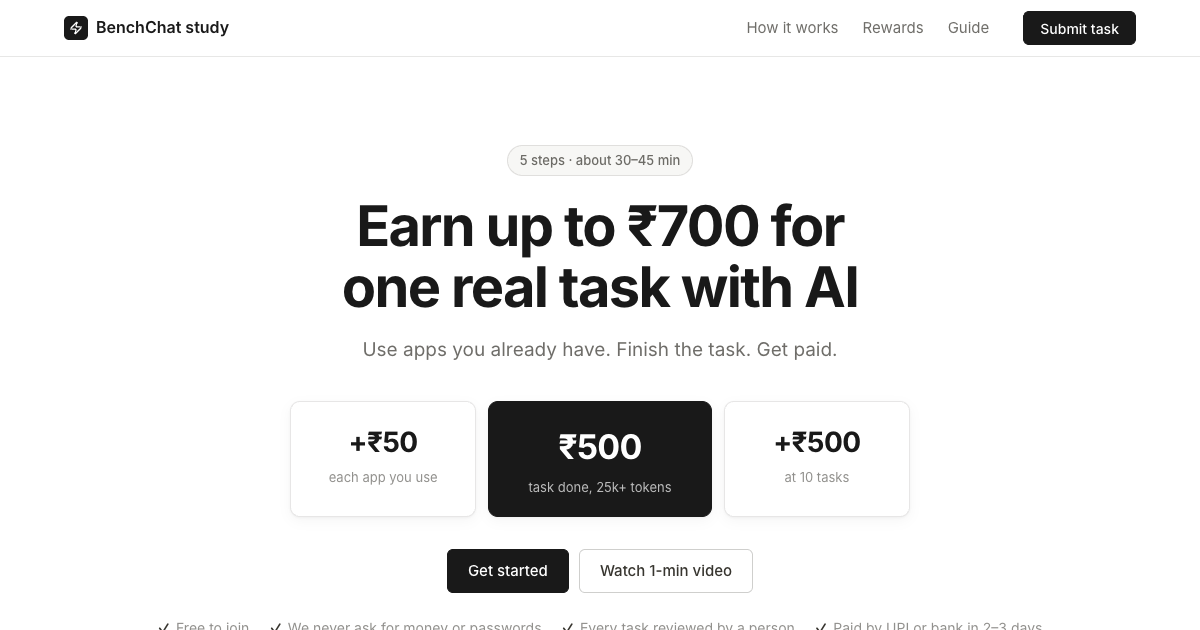
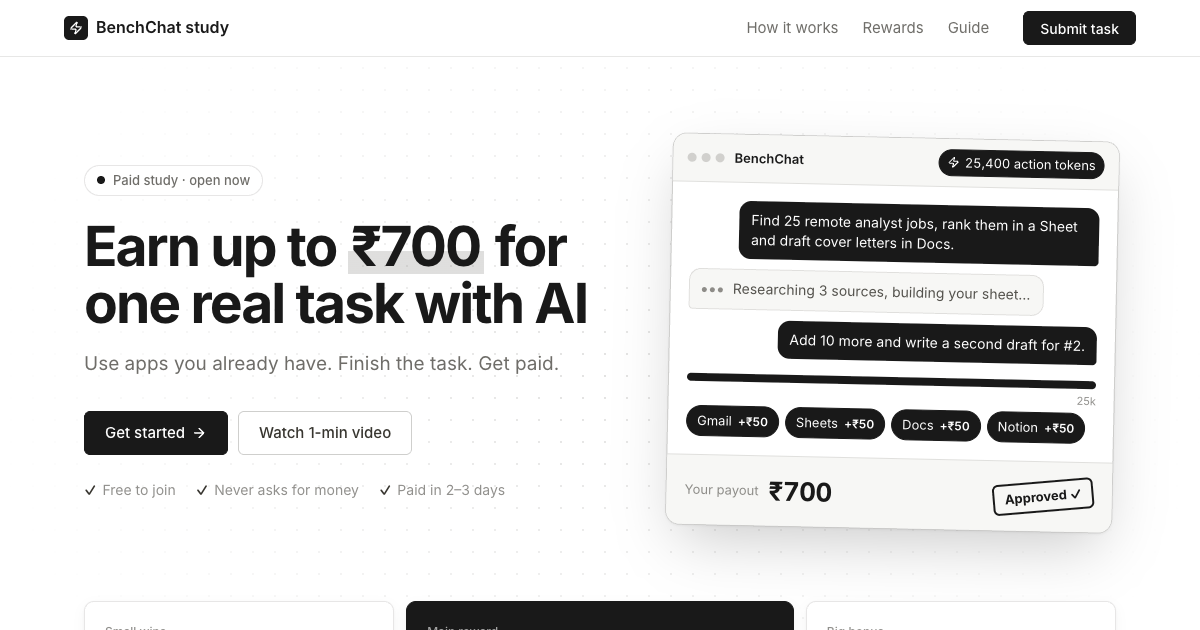
Catchier hero: live BenchChat demo, marker headline, app marquee
Animated mock session (tokens climb to 25k, apps light up with +₹50, payout
reaches ₹700 and gets an Approved stamp), dotted texture, reward cards with
labels, scrolling app strip, ink-filled accents on key cards. Respects
prefers-reduced-motion.

diff --git a/src/index.css b/src/index.css
@@ -25,7 +25,7 @@ a:hover { text-decoration-color: var(--fg); }
 p { margin: 0 0 12px; }
 .strong { color: var(--fg); font-weight: 600; }
 .icon { flex-shrink: 0; }
-.wrap { max-width: 960px; margin: 0 auto; padding: 0 24px; }
+.wrap { max-width: 1080px; margin: 0 auto; padding: 0 24px; }
 
 /* type */
 h1 { margin: 0; max-width: 760px; color: var(--ink); font: 700 clamp(36px, 5.6vw, 56px)/1.1 var(--sans); letter-spacing: -.03em; text-wrap: balance; }
@@ -202,4 +202,96 @@ footer .wrap { display: flex; flex-wrap: wrap; justify-content: space-between; g
   .level-side { grid-column: 2; align-items: flex-start; flex-direction: row; flex-wrap: wrap; }
   .fold-body { padding-left: 6px; }
   .submit { padding: 22px; }
+}
+
+/* ---------- catchy layer: hero demo, marker, marquee, texture ---------- */
+.hero { position: relative; overflow: hidden; background:
+  radial-gradient(rgba(55, 53, 47, .14) 1px, transparent 1px) 0 0 / 22px 22px; }
+.hero::after { content: ""; position: absolute; inset: 0; pointer-events: none;
+  background: radial-gradient(60% 70% at 50% 40%, rgba(255, 255, 255, 0), #fff 85%); }
+.hero > * { position: relative; z-index: 1; }
+.hero-grid { display: grid; grid-template-columns: 1.2fr 1fr; gap: 48px; align-items: center; padding-top: 80px; padding-bottom: 40px; }
+.hero-copy { text-align: left; }
+.hero-copy h1 { font-size: clamp(38px, 4.6vw, 56px); line-height: 1.04; letter-spacing: -.035em; }
+.hero-copy .lede { margin-left: 0; }
+.hero-copy .cta, .hero-copy .trust { justify-content: flex-start; }
+.hero-copy .pill { display: inline-flex; align-items: center; gap: 8px; margin-bottom: 22px; background: #fff; }
+.live { width: 8px; height: 8px; border-radius: 50%; background: var(--ink); box-shadow: 0 0 0 0 rgba(25, 25, 25, .4); animation: pulse 1.8s infinite; }
+@keyframes pulse { 70% { box-shadow: 0 0 0 8px rgba(25, 25, 25, 0); } 100% { box-shadow: 0 0 0 0 rgba(25, 25, 25, 0); } }
+mark { color: inherit; background: linear-gradient(transparent 58%, rgba(55, 53, 47, .16) 58%, rgba(55, 53, 47, .16) 92%, transparent 92%); padding: 0 .06em; }
+.btn .icon { transition: transform .15s; }
+.btn:hover .icon { transform: translateX(3px); }
+
+.demo { border: 1px solid var(--line-strong); border-radius: 14px; background: #fff; box-shadow: 0 1px 2px rgba(15, 15, 15, .05), 0 24px 60px -12px rgba(15, 15, 15, .22); overflow: hidden; transform: rotate(1.2deg); }
+.demo-bar { display: flex; align-items: center; gap: 10px; padding: 10px 14px; border-bottom: 1px solid var(--line); background: var(--bg-soft); font-size: 13px; }
+.dots { display: flex; gap: 5px; }
+.dots i { width: 9px; height: 9px; border-radius: 50%; background: rgba(55, 53, 47, .2); }
+.demo-title { font-weight: 600; color: var(--ink); }
+.demo-tokens { display: inline-flex; align-items: center; gap: 5px; margin-left: auto; padding: 2px 8px; border-radius: 999px; border: 1px solid var(--line); font-variant-numeric: tabular-nums; color: var(--fg-70); transition: all .3s; }
+.demo-tokens.hit { background: var(--ink); color: #fff; border-color: var(--ink); }
+.demo-body { display: flex; flex-direction: column; gap: 10px; padding: 18px; min-height: 250px; }
+.msg { max-width: 88%; padding: 9px 12px; border-radius: 12px; font-size: 14px; line-height: 1.45; }
+.msg.you { align-self: flex-end; background: var(--ink); color: #fff; border-bottom-right-radius: 4px; }
+.msg.ai { align-self: flex-start; background: var(--bg-soft); border: 1px solid var(--line); border-bottom-left-radius: 4px; color: var(--fg-80); }
+.msg.ai, .msg.you + .msg.ai ~ .msg.you { opacity: 0; transform: translateY(6px); transition: all .4s; }
+.msg.show { opacity: 1 !important; transform: none !important; }
+.typing { display: inline-flex; gap: 3px; margin-right: 6px; vertical-align: middle; }
+.typing i { width: 5px; height: 5px; border-radius: 50%; background: var(--fg-50); animation: blink 1.2s infinite; }
+.typing i:nth-child(2) { animation-delay: .2s; } .typing i:nth-child(3) { animation-delay: .4s; }
+@keyframes blink { 50% { opacity: .2; } }
+.demo-meter { position: relative; height: 8px; margin-top: 6px; border-radius: 4px; background: var(--bg-hover); }
+.demo-meter span { display: block; height: 100%; border-radius: 4px; background: var(--ink); }
+.demo-meter em { position: absolute; right: 0; top: 12px; font-style: normal; font-size: 11px; color: var(--fg-50); }
+.demo-apps { display: flex; flex-wrap: wrap; gap: 6px; margin-top: 14px; }
+.dapp { display: inline-flex; align-items: center; gap: 6px; padding: 4px 10px; border-radius: 999px; border: 1px solid var(--line); font-size: 13px; color: var(--fg-50); transition: all .3s; }
+.dapp.on { background: var(--ink); border-color: var(--ink); color: #fff; }
+.dapp b { font-weight: 600; font-size: 12px; animation: pop .4s; }
+@keyframes pop { from { transform: scale(.4); opacity: 0; } }
+.demo-foot { display: flex; align-items: center; gap: 10px; padding: 14px 18px; border-top: 1px solid var(--line); background: var(--bg-soft); }
+.demo-foot span:first-child { font-size: 13px; color: var(--fg-50); }
+.demo-foot b { font-size: 26px; letter-spacing: -.02em; color: var(--ink); font-variant-numeric: tabular-nums; }
+.stamp { margin-left: auto; padding: 3px 10px; border: 2px solid var(--ink); border-radius: 6px; color: var(--ink); font-size: 13px; font-weight: 700; transform: rotate(-6deg); animation: pop .35s; }
+
+.hero .ladder { max-width: none; margin: 32px 0 0; grid-template-columns: 1fr 1.25fr 1fr; }
+.rung { text-align: left; padding: 20px; transition: transform .15s, box-shadow .15s; }
+.rung:hover { transform: translateY(-2px); box-shadow: 0 10px 30px -10px rgba(15, 15, 15, .25); }
+.rung small { font-size: 12px; font-weight: 500; color: var(--fg-50); margin-bottom: 4px; }
+.rung.big small { color: rgba(255, 255, 255, .6); }
+.rung b { font-size: 34px; }
+.rung.big b { font-size: 42px; }
+
+.marquee { margin-top: 40px; padding: 16px 0; border-top: 1px solid var(--line); overflow: hidden;
+  -webkit-mask-image: linear-gradient(90deg, transparent, #000 10%, #000 90%, transparent); mask-image: linear-gradient(90deg, transparent, #000 10%, #000 90%, transparent); }
+.track { display: flex; gap: 40px; width: max-content; animation: slide 40s linear infinite; }
+.track span { color: var(--fg-50); font-size: 15px; font-weight: 500; white-space: nowrap; }
+.track span::before { content: "●"; margin-right: 40px; font-size: 6px; vertical-align: middle; color: var(--fg-35); }
+@keyframes slide { to { transform: translateX(-50%); } }
+
+/* bolder section heads */
+.sec-head .label { display: inline-block; padding: 2px 10px; border-radius: 999px; background: var(--bg-soft); border: 1px solid var(--line); color: var(--fg-70); margin-bottom: 12px; }
+h2 { font-size: clamp(30px, 4vw, 44px); letter-spacing: -.03em; }
+.panel, .prompt, .card { transition: transform .15s, box-shadow .15s; }
+.panel:hover { transform: translateY(-2px); box-shadow: var(--shadow); }
+.rule-icon { width: 48px; height: 48px; border-radius: 12px; background: var(--ink); border-color: var(--ink); color: #fff; }
+.figure { font-size: 40px; letter-spacing: -.03em; }
+#payment .panel:first-child { background: var(--ink); border-color: var(--ink); }
+#payment .panel:first-child .figure, #payment .panel:first-child h3 { color: #fff; }
+#payment .panel:first-child p { color: rgba(255, 255, 255, .7); }
+.thumb { transition: transform .2s; }
+.thumb:hover { transform: scale(1.01); }
+.level { transition: background .15s; }
+.total { background: var(--ink); border-color: var(--ink); }
+.total b, .total .strong { color: #fff; }
+.total .label, .total .sub, .total .note { color: rgba(255, 255, 255, .7) !important; }
+
+@media (max-width: 900px) {
+  .hero-grid { grid-template-columns: 1fr; gap: 40px; padding-top: 48px; }
+  .demo { transform: none; }
+}
+@media (max-width: 560px) {
+  .hero .ladder { grid-template-columns: 1fr; }
+  .rung b { font-size: 28px; } .rung.big b { font-size: 34px; }
+}
+@media (prefers-reduced-motion: reduce) {
+  .track, .live, .typing i { animation: none; }
 }

diff --git a/src/App.jsx b/src/App.jsx
@@ -86,27 +86,88 @@ function useStored(key, initial) {
   return [value, setValue]
 }
 
+const DEMO_APPS = ['Gmail', 'Sheets', 'Docs', 'Notion']
+const DEMO_LEN = 7000 // ms per loop
+
+// Looping mock of a BenchChat session: tokens climb, apps light up, payout grows.
+function Demo() {
+  const [t, setT] = useState(0)
+  useEffect(() => {
+    if (window.matchMedia?.('(prefers-reduced-motion: reduce)').matches) { setT(DEMO_LEN); return }
+    const start = performance.now()
+    let raf
+    const tick = (now) => { setT((now - start) % (DEMO_LEN + 1500)); raf = requestAnimationFrame(tick) }
+    raf = requestAnimationFrame(tick)
+    return () => cancelAnimationFrame(raf)
+  }, [])
+  const p = Math.min(t / DEMO_LEN, 1)
+  const tokens = Math.round(25400 * (1 - (1 - p) ** 2))
+  const lit = Math.min(DEMO_APPS.length, Math.floor(p * (DEMO_APPS.length + 1)))
+  const earned = (tokens >= 25000 ? REWARDS.base : 0) + Math.min(lit * REWARDS.perApp, REWARDS.appCap)
+  const approved = p >= 1
+  return (
+    <div className="demo" aria-hidden="true">
+      <div className="demo-bar">
+        <span className="dots"><i /><i /><i /></span>
+        <span className="demo-title">BenchChat</span>
+        <span className={tokens >= 25000 ? 'demo-tokens hit' : 'demo-tokens'}>
+          <Icon name="zap" size={12} />{tokens.toLocaleString('en-IN')} action tokens
+        </span>
+      </div>
+      <div className="demo-body">
+        <div className="msg you">Find 25 remote analyst jobs, rank them in a Sheet and draft cover letters in Docs.</div>
+        <div className={p > .15 ? 'msg ai show' : 'msg ai'}>
+          <span className="typing"><i /><i /><i /></span> Researching 3 sources, building your sheet…
+        </div>
+        <div className={p > .55 ? 'msg you show' : 'msg you'}>Add 10 more and write a second draft for #2.</div>
+        <div className="demo-meter"><span style={{ width: `${Math.min(tokens / 250, 100)}%` }} /><em>25k</em></div>
+        <div className="demo-apps">
+          {DEMO_APPS.map((a, i) => (
+            <span key={a} className={i < lit ? 'dapp on' : 'dapp'}>{a}{i < lit && <b>+₹{REWARDS.perApp}</b>}</span>
+          ))}
+        </div>
+      </div>
+      <div className="demo-foot">
+        <span>Your payout</span>
+        <b>₹{earned}</b>
+        {approved && <span className="stamp">Approved ✓</span>}
+      </div>
+    </div>
+  )
+}
+
+const MARQUEE = ['Gmail', 'Google Sheets', 'Google Docs', 'Notion', 'Slack', 'Google Calendar', 'Google Drive', 'Web search', 'Firecrawl', 'Exa', 'People Data Labs', 'ElevenLabs']
+
 function Hero() {
   return (
     <header className="hero" id="top">
-      <div className="wrap hero-inner">
-        <span className="pill">5 steps · about 30–45 min</span>
-        <h1>Earn up to ₹{REWARDS.maxPerTask} for one real task with AI</h1>
-        <p className="lede">Use apps you already have. Finish the task. Get paid.</p>
+      <div className="wrap hero-grid">
+        <div className="hero-copy">
+          <span className="pill"><span className="live" />Paid study · open now</span>
+          <h1>Earn up to <mark>₹{REWARDS.maxPerTask}</mark> for one real task with AI</h1>
+          <p className="lede">Use apps you already have. Finish the task. Get paid.</p>
+          <div className="cta">
+            <a className="btn primary" href="#quest">Get started <Icon name="arrow" size={16} /></a>
+            <a className="btn" href="#video">Watch 1-min video</a>
+          </div>
+          <div className="trust">
+            <span>Free to join</span>
+            <span>Never asks for money</span>
+            <span>Paid in 2–3 days</span>
+          </div>
+        </div>
+        <Demo />
+      </div>
+      <div className="wrap">
         <div className="ladder" aria-label="Rewards">
-          <div className="rung"><b>+₹{REWARDS.perApp}</b><span>each app you use</span></div>
-          <div className="rung big"><b>₹{REWARDS.base}</b><span>task done, 25k+ tokens</span></div>
-          <div className="rung"><b>+₹{REWARDS.streak}</b><span>at {REWARDS.streakAt} tasks</span></div>
+          <div className="rung"><small>Small wins</small><b>+₹{REWARDS.perApp}</b><span>each app you use</span></div>
+          <div className="rung big"><small>Main reward</small><b>₹{REWARDS.base}</b><span>task done, 25k+ tokens</span></div>
+          <div className="rung"><small>Big bonus</small><b>+₹{REWARDS.streak}</b><span>at {REWARDS.streakAt} approved tasks</span></div>
         </div>
-        <div className="cta">
-          <a className="btn primary" href="#quest">Get started</a>
-          <a className="btn" href="#video">Watch 1-min video</a>
-        </div>
-        <div className="trust">
-          <span>Free to join</span>
-          <span>We never ask for money or passwords</span>
-          <span>Every task reviewed by a person</span>
-          <span>Paid by UPI or bank in 2–3 days</span>
+      </div>
+      <div className="marquee" aria-label="Works with">
+        <div className="track">
+          {[...MARQUEE, ...MARQUEE].map((m, i) => <span key={i}>{m}</span>)}
         </div>
       </div>
     </header>
